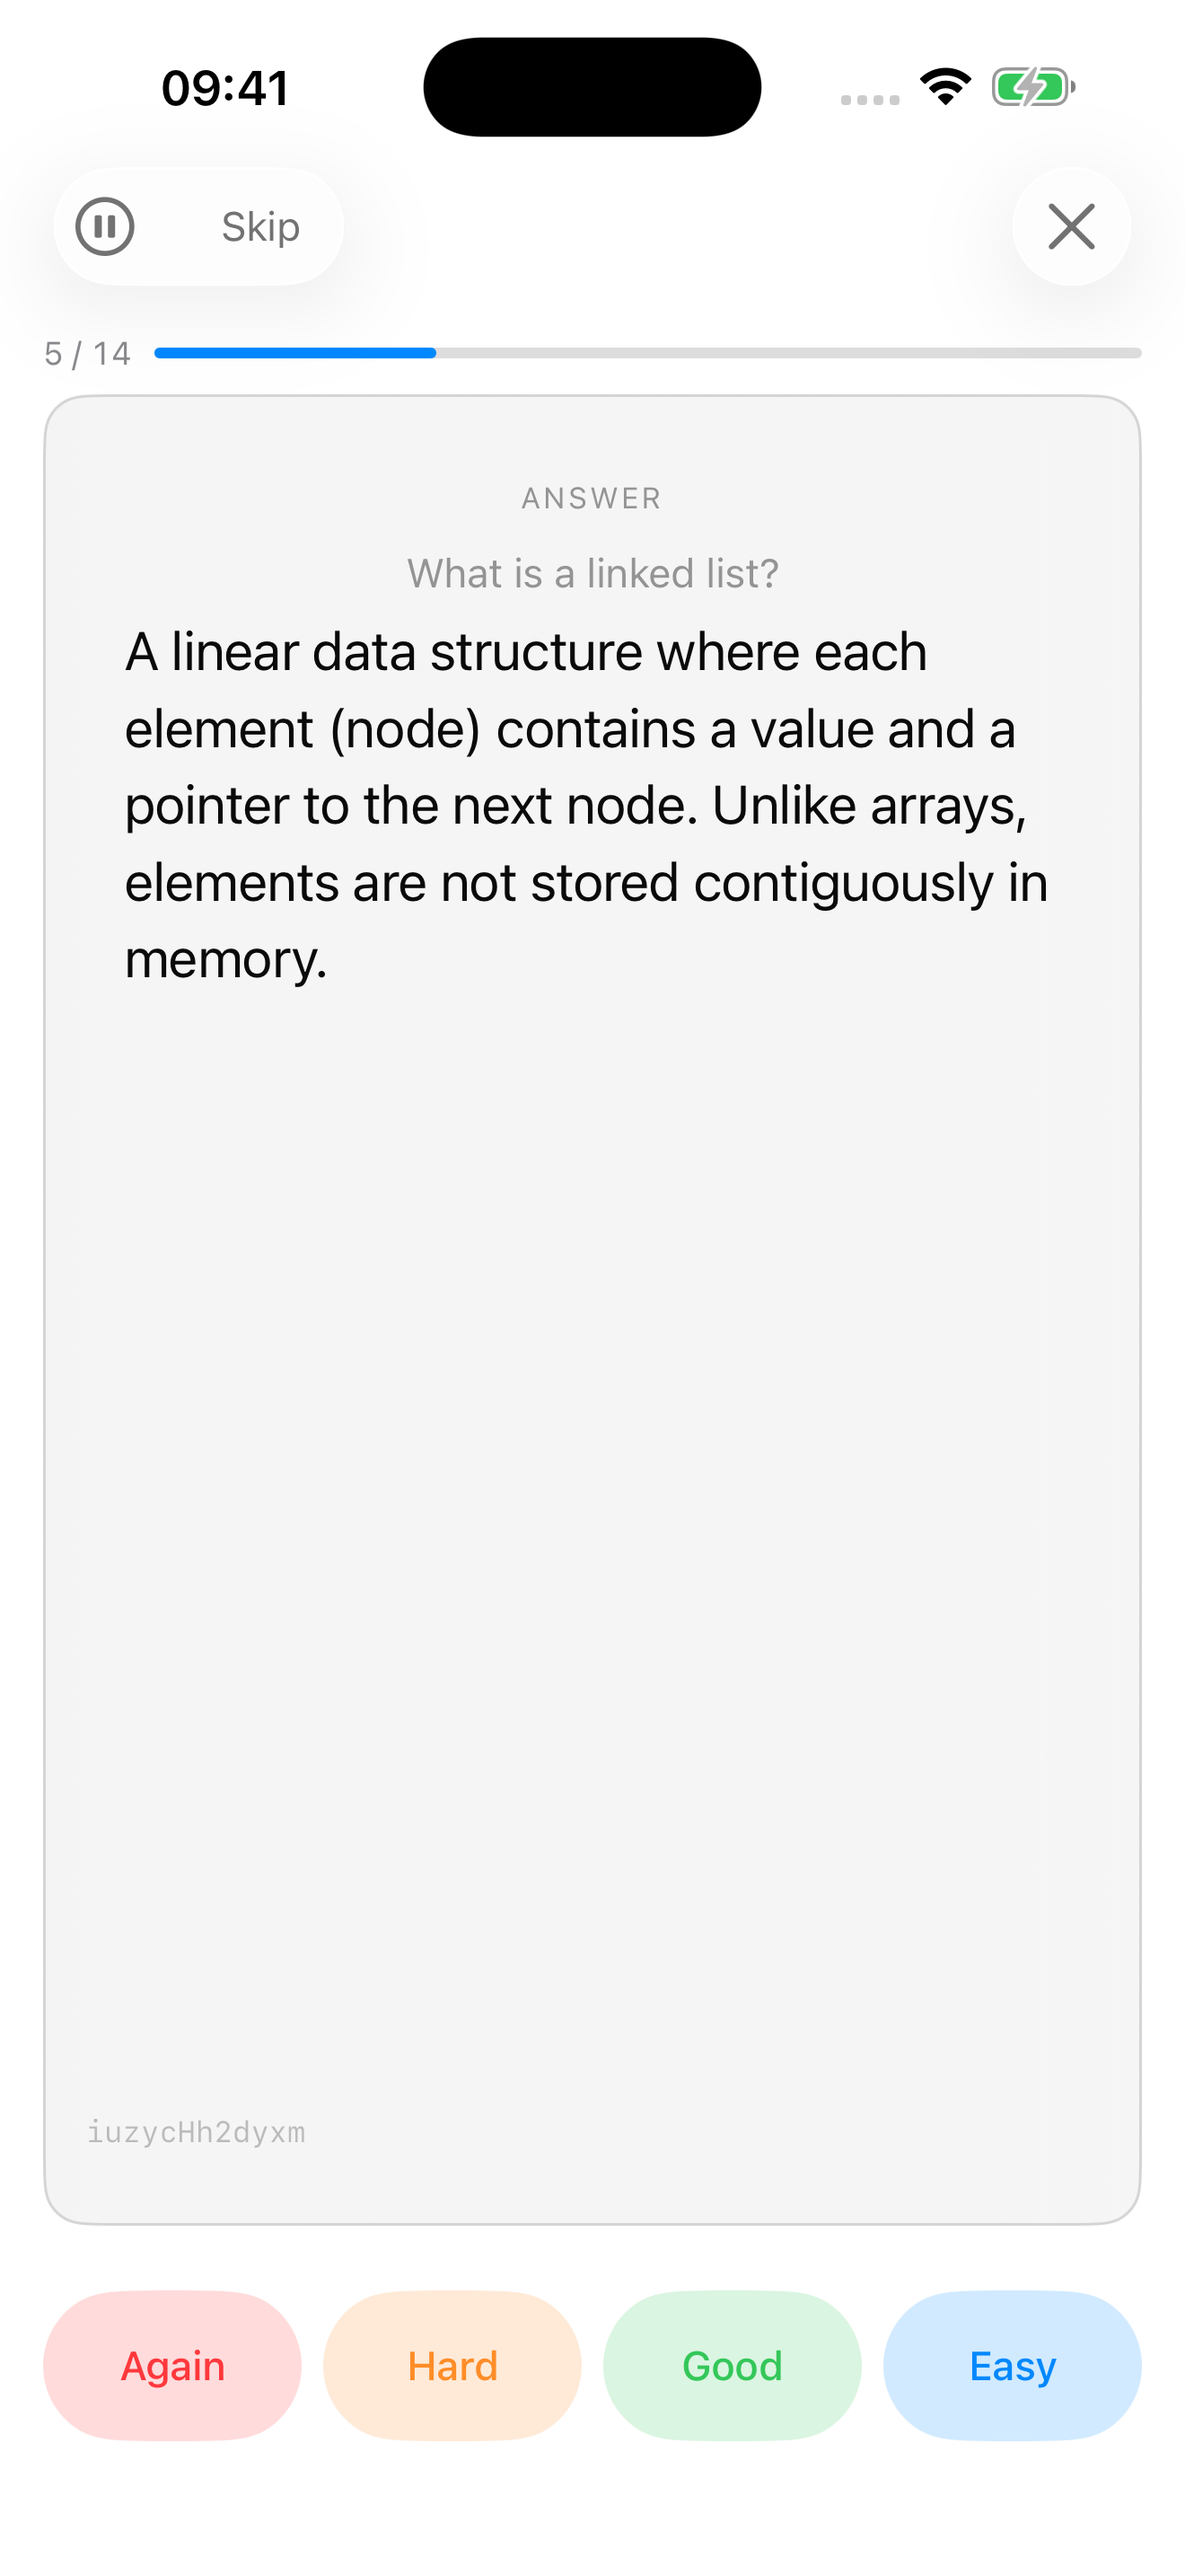
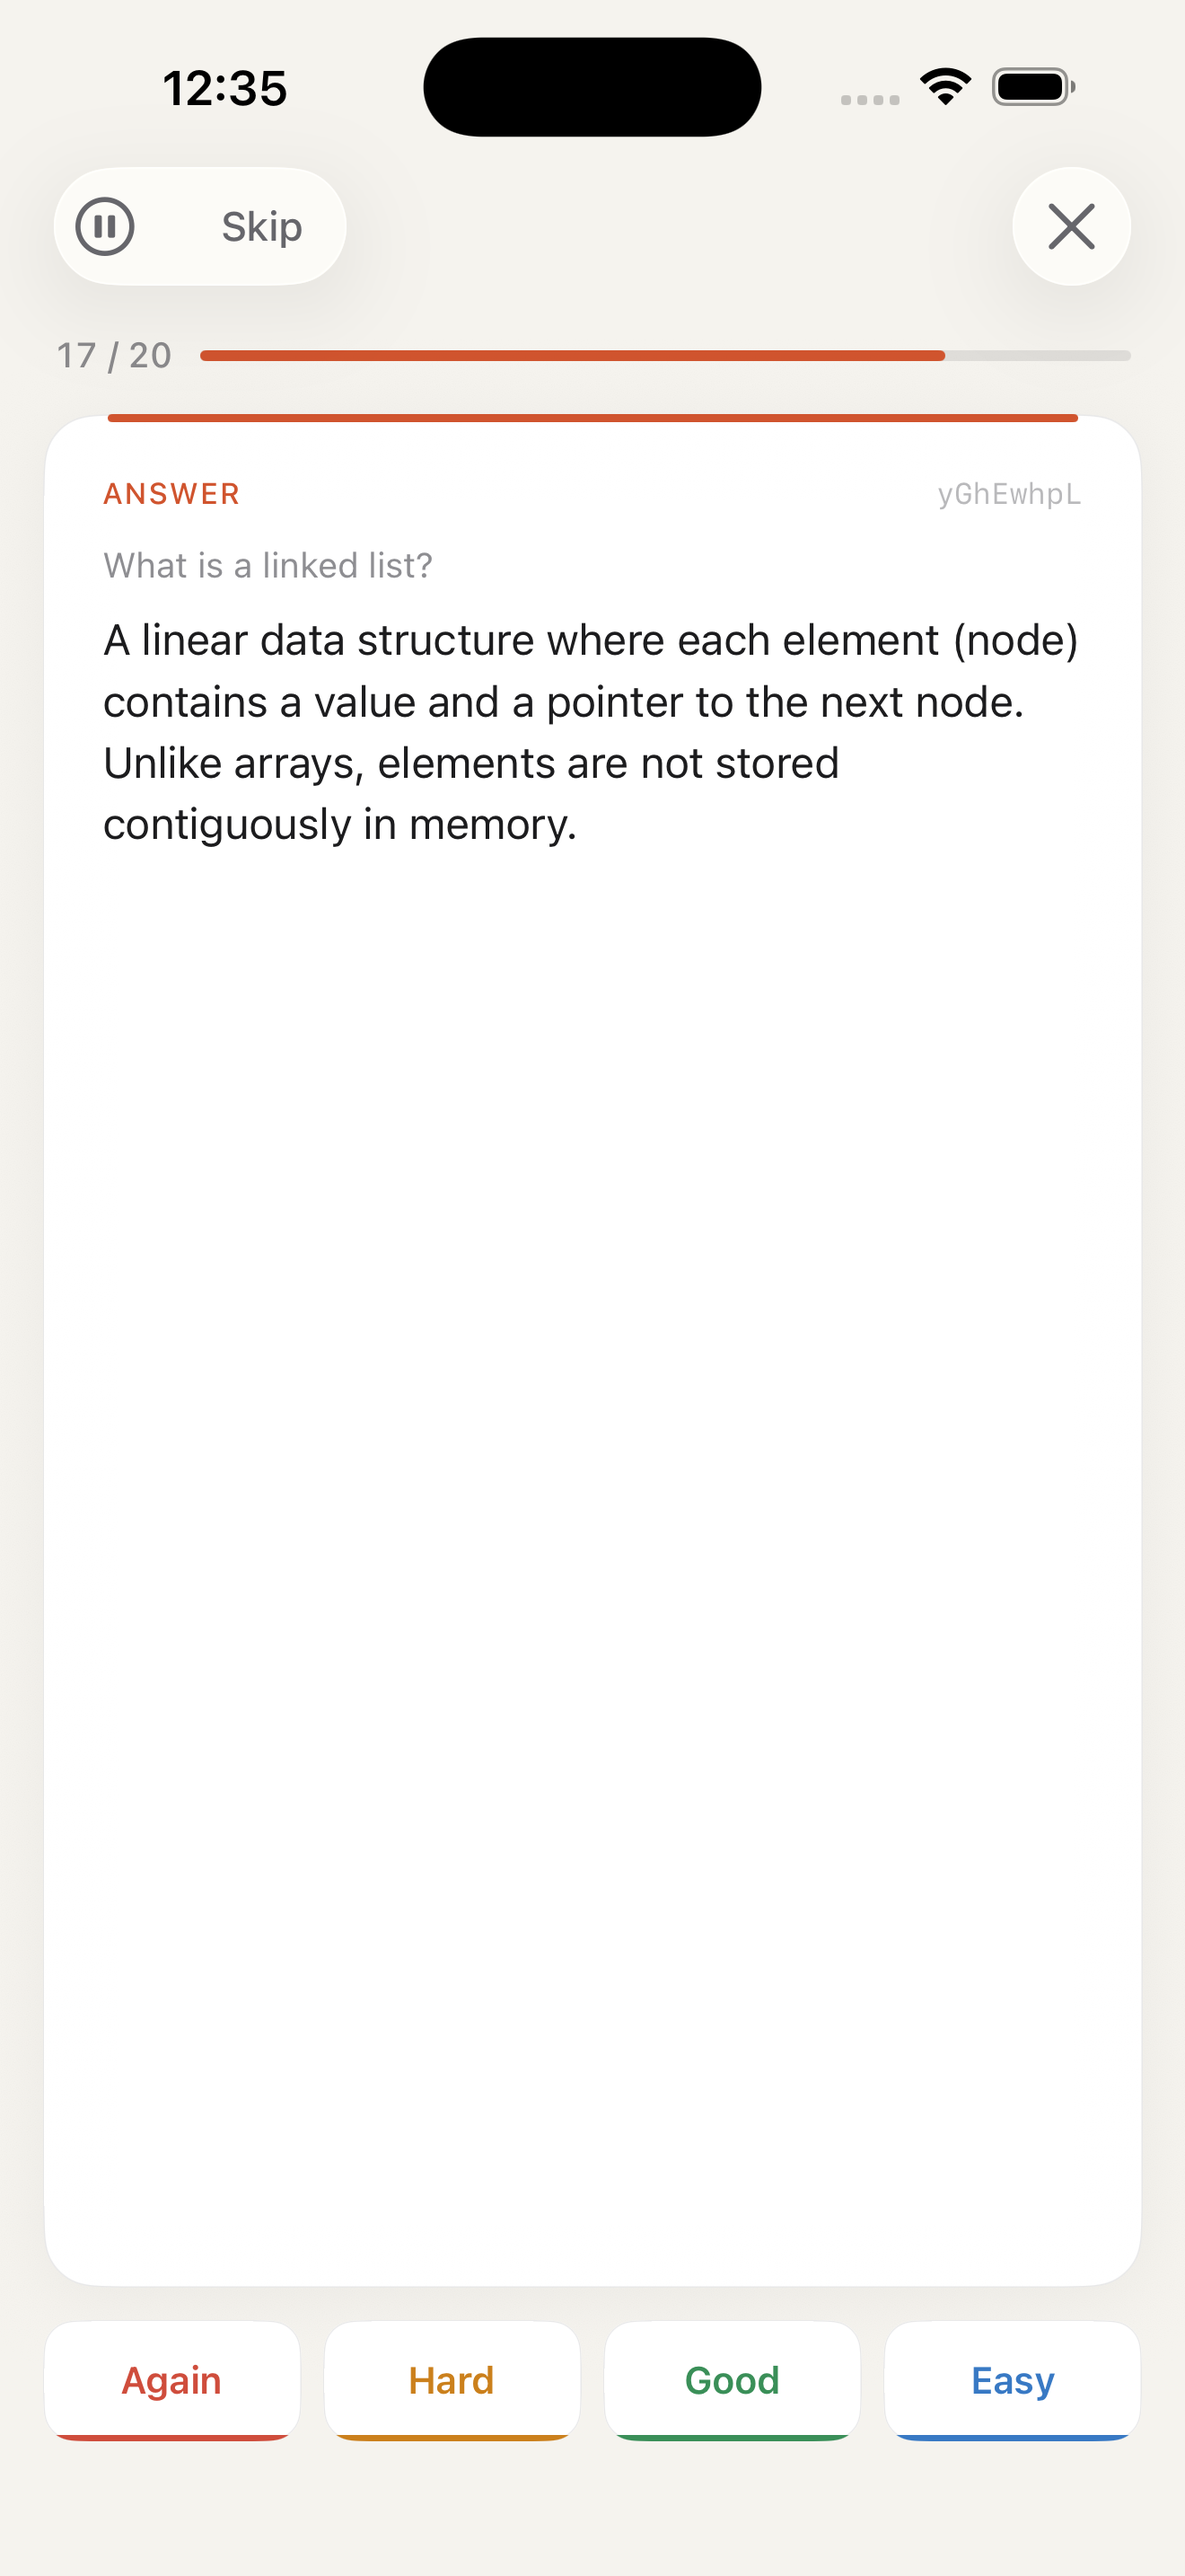
new screenshots

diff --git a/README.md b/README.md
@@ -8,15 +8,13 @@
   MCP-first spaced repetition powered by your AI.<br/>
 </p>
 
-<i>100 % Vibecoded. I wanted todo this project for years but was to lazy to continue. Finally started to vibecode it and it quickly shifted goals to just be a frontend and let agents generate the cards.</i>
-
 ---
 
 Connect fasolt to Claude, ChatGPT, or any MCP-compatible agent. Ask it to create flashcards — from your notes, a topic, or anything you want to learn. Study the cards it creates.
 
 <p align="center">
-  <img src="docs/media/web_front.png" alt="Study question" width="400" />
-  <img src="docs/media/web_back.png" alt="Study answer" width="400" />
+  <img src="docs/media/web_study.png" alt="Study question" width="400" />
+  <img src="docs/media/web_front.png" alt="Study answer" width="400" />
 </p>
 
 ## How It Works
